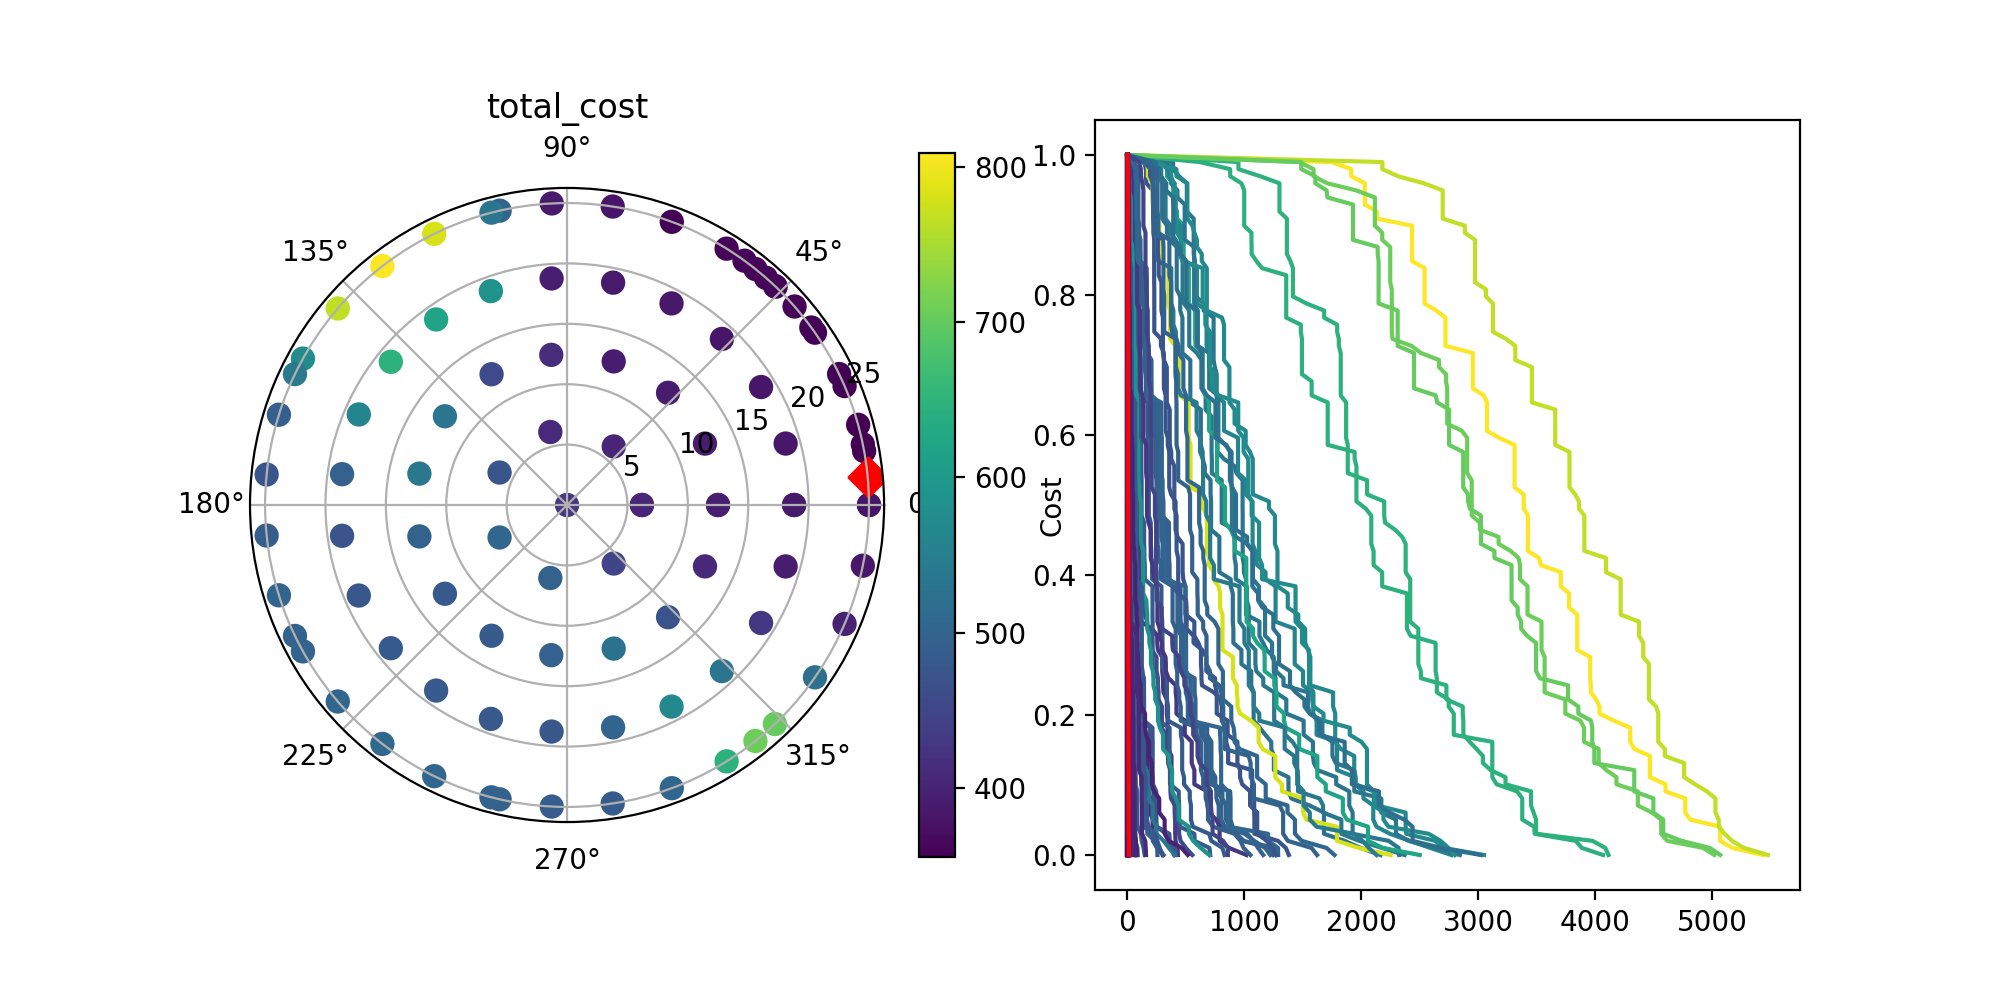
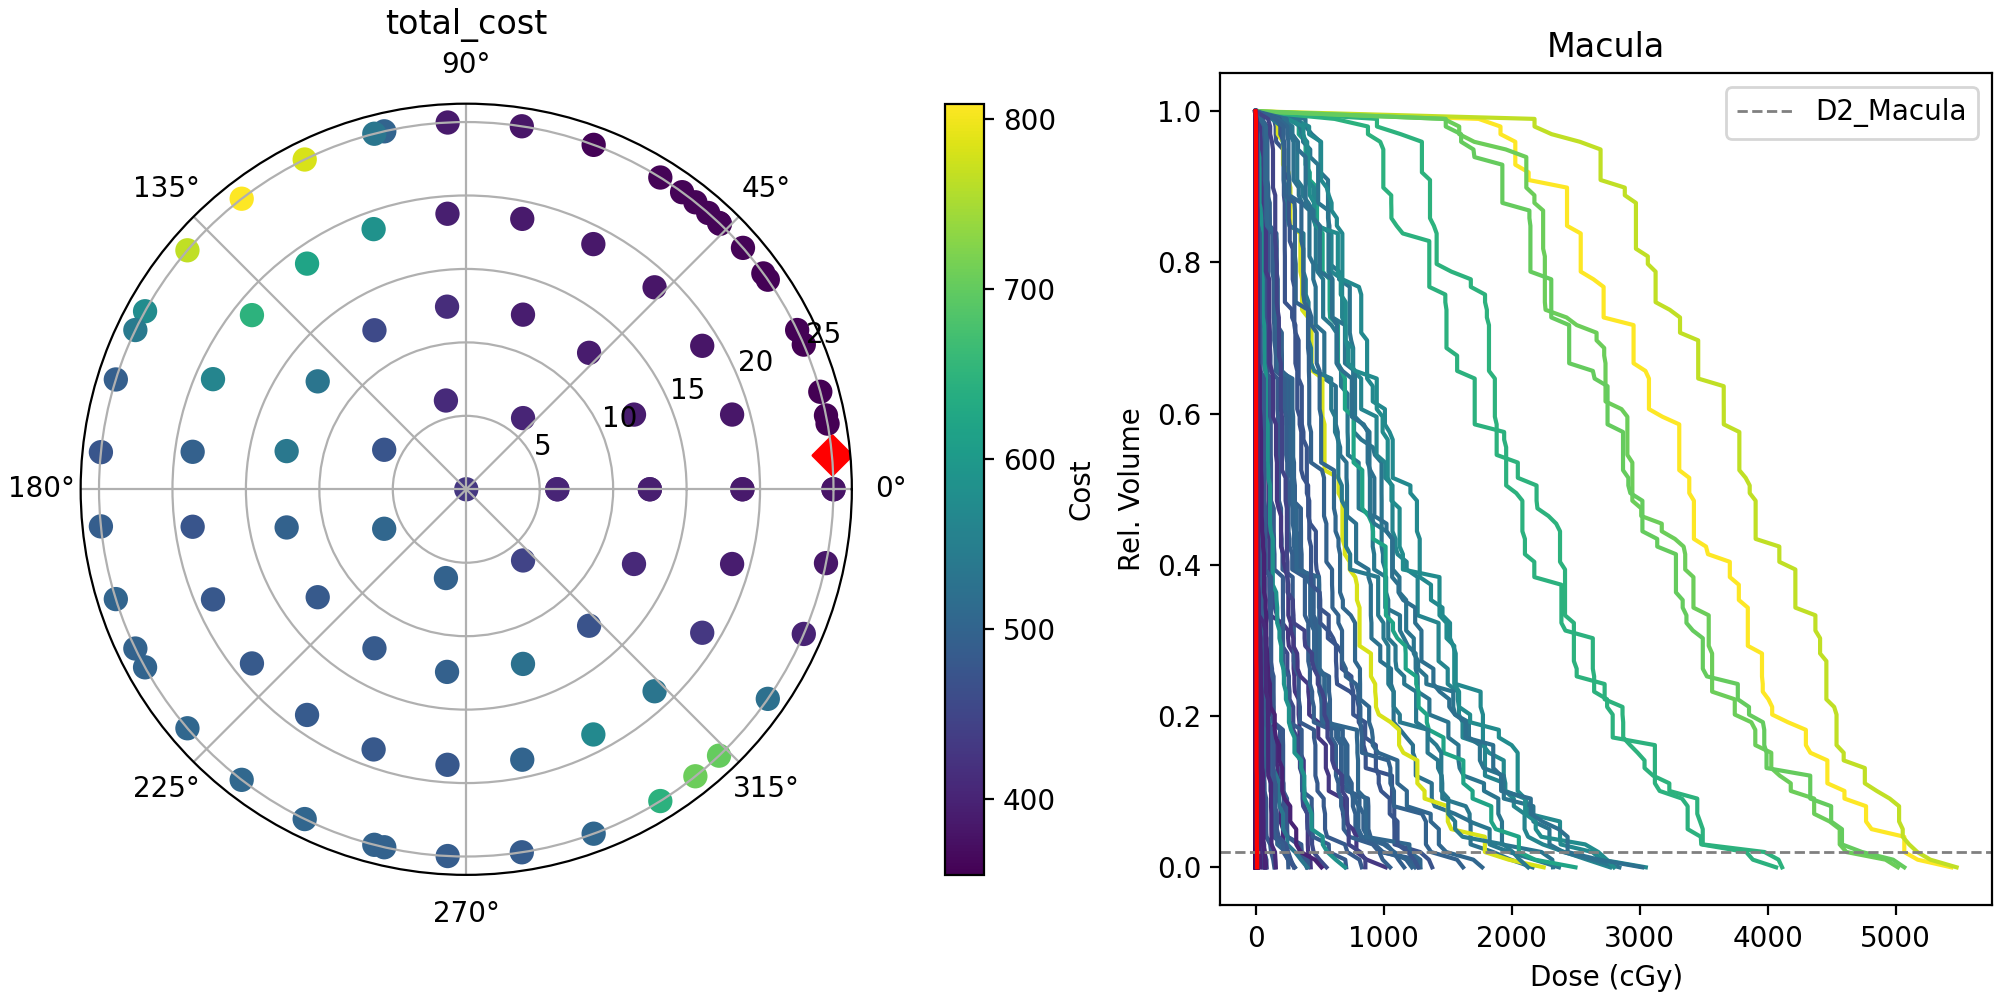
introduce hdf5 files, run for 17213

diff --git a/functions/plotting.py b/functions/plotting.py
@@ -63,11 +63,11 @@ def full_scatter_plot(self):
 
 
 def dvh_metric_plot(self, metric):
-    fig = plt.figure(figsize=(10, 5))
+    fig = plt.figure(figsize=(10, 5), constrained_layout=True)
     ax_scatter = fig.add_subplot(1, 2, 1, projection='polar')
     ax_lines = fig.add_subplot(1, 2, 2)
     cost = self.single_gaze_plot(ax_scatter, 'total_cost')
-    _, roi = metric.split('_')
+    x, roi = metric.split('_')
     cmap = plt.cm.viridis
     colors = cmap((cost - cost.min()) / (cost.max() - cost.min()))
     min_idx = np.argmin(cost)
@@ -79,6 +79,18 @@ def dvh_metric_plot(self, metric):
             if i != min_idx: ax_lines.plot(dvh, y, color=c, zorder=1)
             else: 
                 ax_lines.plot(dvh, y, color='red', zorder=1000)
+    what = x[0]
+    value = int(x[1:])
+    if what == 'D':
+        ax_lines.axhline(y=value/100, color='gray', linestyle='--', linewidth=1, label=metric)
+
+    elif what == 'V':
+        print(value)
+        ax_lines.axvline(x=value*100, color='gray', linestyle='--', linewidth=1, label=metric)
+    ax_lines.legend(loc='upper right')
+    ax_lines.set_title(roi)
+    ax_lines.set_xlabel('Dose (cGy)')
+    ax_lines.set_ylabel('Rel. Volume')
 
           
 def full_metric_dvh_plot(self):

diff --git a/main.py b/main.py
@@ -13,7 +13,7 @@ def main():
 
 
 
-    patient_id = '17213'
+    patient_id = 'P23336'
     delta_polar = 5
     max_polar_deg = 25
     weights = {'D2_Macula': 3, 'D20_OpticalDisc': 3, 'D20_Cornea': 1, 'V55_Retina':1, 'V27_CiliaryBody': 1, 'D5_Lens': 1}
@@ -27,9 +27,9 @@ def main():
     
     start_time = time.time()
     metric = 'D2_Macula'
-    Optimizer.full_metric_dvh_plot()
-    #Optimizer.full_search()
+    Optimizer.full_search()
     end_time = time.time()
+    Optimizer.full_metric_dvh_plot()
 
     elapsed_time = end_time - start_time
     print(f"Elapsed time: {elapsed_time:.2f} seconds")
